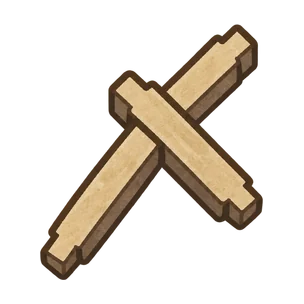
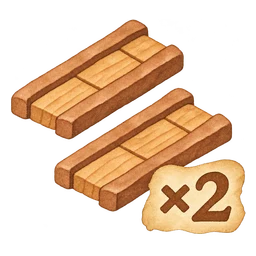
건설 버튼 정렬, 길 그림 교체, 길 건설 카드 확인 버튼, 숫자 패 가운데로
건설 버튼 네 개의 그림·이름·재료가 버튼마다 같은 높이에 놓인다. 재료는 한 줄에 두 개씩 같은 칸 너비로 맞춰 위아래 줄의 아이콘과 숫자가 세로로 맞고, 두 줄 자리를 늘 비워 둔다. 버튼 높이는 교환·턴 종료 버튼과 같은 88px이다.

- 건설 버튼의 도로 그림을 판자 길 한 조각(road.webp)으로, 길 건설 카드 그림을 판자 길 두 조각과 ×2 딱지로 바꿨다. 받은 투명 바탕 그림에서 흰 테두리만 걷어 256px WebP 로 줄였다.
- 길 건설 카드를 쓰면 빛나는 변을 고를 때마다 '✓ 도로 건설 · 공짜 n개 남음' 버튼이 떠서 길을 하나씩 확인하며 놓는다 (전에는 누르자마자 지어졌다).
- 숫자 패를 칸 한가운데(TOKEN_FACE)로 옮기고 30px 에서 34px 로 조금 키웠다. 숫자와 확률 점도 원판 가운데에 맞췄다. 소품을 비우는 빈터는 그대로다.

diff --git a/src/client/screens/Game.tsx b/src/client/screens/Game.tsx
@@ -191,14 +191,18 @@ export default function Game({ view, onRenderer, children }: { view: RoomView; o
       setSelected((cur) => (cur && cur.kind === sel.kind && cur.id === sel.id ? null : spotAction(view, sel) ? sel : null));
       return;
     }
-    // 건설 모드나 길 건설 카드: 빛나는 자리를 누르면 확인 없이 바로 짓는다.
-    const freeRoads = g.phase === 'playing' && g.step === 'road_building' && g.currentPlayerId === view.you;
-    if (buildMode || freeRoads) {
+    // 길 건설 카드: 빛나는 변을 고르면 ✓ 도로 건설 버튼이 뜨고, 길마다 그 버튼을 눌러 하나씩 놓는다.
+    if (g.phase === 'playing' && g.step === 'road_building' && g.currentPlayerId === view.you) {
+      setSelected((cur) => (cur && cur.kind === sel.kind && cur.id === sel.id ? null : spotAction(view, sel) ? sel : null));
+      return;
+    }
+    // 건설 모드: 빛나는 자리를 누르면 확인 없이 바로 짓는다.
+    if (buildMode) {
       const act = spotAction(view, sel);
-      const want = freeRoads || buildMode === 'road' ? 'build_road' : buildMode === 'village' ? 'build_village' : 'build_city';
+      const want = buildMode === 'road' ? 'build_road' : buildMode === 'village' ? 'build_village' : 'build_city';
       if (act && act.action.type === want && !act.blocker) {
         setSelected(null);
-        void sendAction(act.action).then((ok) => ok && !freeRoads && setBuildMode(null));
+        void sendAction(act.action).then((ok) => ok && setBuildMode(null));
         return;
       }
     }
@@ -216,7 +220,7 @@ export default function Game({ view, onRenderer, children }: { view: RoomView; o
     : myTurn && g.step === 'robber'
       ? '기사단 동상을 옮길 칸을 누르세요. 그 칸은 동상이 떠날 때까지 생산하지 않습니다.'
       : myTurn && g.step === 'road_building'
-        ? `길 건설 카드: 빛나는 변을 눌러 공짜 길 ${g.freeRoads}개를 놓으세요.`
+        ? `길 건설 카드: 빛나는 변을 고르고 ✓ 도로 건설을 누르세요. 공짜 길이 ${g.freeRoads}개 남았습니다.`
         : null;
   // 좁은 화면에서는 보드 위에 떠 있고, 넓은 화면에서는 오른쪽 패널 위쪽에 놓인다 (보드를 가리지 않게).
   const banners = (

diff --git a/src/client/game.css b/src/client/game.css
@@ -372,7 +372,8 @@
   display: flex;
   flex-direction: column;
   align-items: center;
-  justify-content: center;
+  /* 그림·이름·재료를 위에서부터 같은 자리에 둔다 (재료 줄 수가 달라도 그림과 이름 높이가 버튼마다 같게) */
+  justify-content: flex-start;
   gap: 1px;
   padding: 5px 3px 4px;
   min-height: 70px;
@@ -435,18 +436,30 @@
   white-space: nowrap;
 }
 
+/* 재료: 한 줄에 두 개씩, 칸 너비를 똑같이 잡아 위아래 줄의 아이콘과 숫자가 세로로 맞는다. 두 줄 자리를 늘 비워 둔다. */
+.build-bar {
+  --bb-res-w: 27px;
+  --bb-res-h: 14px;
+}
+
 .bb-cost {
   display: flex;
   flex-wrap: wrap;
   justify-content: center;
-  gap: 0 4px;
-  min-height: 16px;
+  align-content: flex-start;
+  gap: 1px 4px;
+  width: calc(2 * var(--bb-res-w) + 4px);
+  max-width: 100%;
+  min-height: calc(2 * var(--bb-res-h) + 1px);
 }
 
 .bb-res {
   display: inline-flex;
   align-items: center;
-  gap: 1px;
+  justify-content: center;
+  gap: 2px;
+  width: var(--bb-res-w);
+  height: var(--bb-res-h);
   font-size: 0.72rem;
   line-height: 1;
 }
@@ -2762,12 +2775,12 @@
 
 /* 건설 버튼: 판자 길, 작은 집, 성벽 마을, 발전 카드 뒷면 */
 .bb-ico {
-  height: 34px;
+  height: 30px;
 }
 
 .bb-ico .art-img {
-  width: 34px;
-  height: 34px;
+  width: 30px;
+  height: 30px;
   filter: drop-shadow(0 1px 1px rgba(58, 42, 31, 0.3));
   transition: transform 0.18s ease-out;
 }
@@ -3641,6 +3654,10 @@
   }
   .game-wide .bb-res {
     font-size: 0.62rem;
+  }
+  .game-wide .build-bar {
+    --bb-res-w: 22px;
+    --bb-res-h: 12px;
   }
   .game-wide .bb-res .res-icon,
   .game-wide .bb-res svg {

diff --git a/src/client/board/BoardRenderer.ts b/src/client/board/BoardRenderer.ts
@@ -21,6 +21,7 @@ import {
   PLATFORM_TOP,
   PLAZA_STATUE_SPOT,
   STATUE_SPOT,
+  TOKEN_FACE,
   TOKEN_SPOT,
   TILE_THICKNESS,
   TILE_TOP,
@@ -2461,7 +2462,7 @@ export class BoardRenderer {
         const el = document.createElement('div');
         this.overlay.appendChild(el);
         const c = tileCenter(t, this.metrics);
-        item = { el, world: new THREE.Vector3(c.x + TOKEN_SPOT.x, TILE_TOP + 0.02, c.z + TOKEN_SPOT.z), anchor: 'translate(-50%, -50%) scale(var(--tz, 1))' };
+        item = { el, world: new THREE.Vector3(c.x + TOKEN_FACE.x, TILE_TOP + 0.02, c.z + TOKEN_FACE.z), anchor: 'translate(-50%, -50%) scale(var(--tz, 1))' };
         this.numberTokens.set(t.id, item);
       }
       const locked = robber === t.id;
@@ -2775,7 +2776,7 @@ export class BoardRenderer {
       const to = this.vertexWorld(it.vertexId);
       if (!t || !to) return;
       const c = tileCenter(t, this.metrics);
-      const from = new THREE.Vector3(c.x + TOKEN_SPOT.x, TILE_TOP + 0.3, c.z + TOKEN_SPOT.z);
+      const from = new THREE.Vector3(c.x + TOKEN_FACE.x, TILE_TOP + 0.3, c.z + TOKEN_FACE.z);
       for (let k = 0; k < it.amount; k++) {
         const target = to.clone().add(new THREE.Vector3((k - (it.amount - 1) / 2) * 0.2, 0.55, 0));
         this.launchGoods(it.resource, from.clone(), target, now + 420 + idx * 110 + k * 130, 950, 0.75);

diff --git a/src/client/styles.css b/src/client/styles.css
@@ -1014,8 +1014,8 @@ h2 {
 /* 숫자 패: 양피지 원판에 먹으로 쓴 숫자, 빨간 6·8, 아래 점은 나올 확률(많을수록 자주 나온다).
    바깥 .num-token 은 보드 위 자리만 잡고, 원판(.num-face)이 튀거나 흔들린다. */
 .num-token {
-  width: 30px;
-  height: 30px;
+  width: 34px;
+  height: 34px;
 }
 
 .num-face {
@@ -1030,17 +1030,18 @@ h2 {
   align-items: center;
   justify-content: center;
   color: #2c2018;
-  font: 700 15px/1 'Palatino Linotype', 'Book Antiqua', Palatino, Georgia, var(--font-title);
+  font: 700 17px/1 'Palatino Linotype', 'Book Antiqua', Palatino, Georgia, var(--font-title);
 }
 
+/* 숫자와 아래 점(나올 확률)을 한 덩어리로 원판 한가운데에 둔다 */
 .num-face b {
-  margin-top: 3px;
+  margin-top: 2px;
 }
 
 .num-face i {
   font-style: normal;
-  font-size: 8px;
-  line-height: 7px;
+  font-size: 9px;
+  line-height: 8px;
   letter-spacing: -1px;
 }
 

diff --git a/src/client/board/layout.ts b/src/client/board/layout.ts
@@ -100,6 +100,11 @@ type Local = Omit<Placement, 'x' | 'y' | 'z'> & { x: number; z: number; y?: numb
 
 /** 숫자 패가 놓이는 자리 (타일 중심 기준). 생산 칸마다 이 둘레를 비워 둔다. */
 export const TOKEN_SPOT = { x: 0, z: 0.12 };
+/**
+ * 숫자 패를 화면에 띄우는 자리: 칸 한가운데. 위에서 비스듬히 내려다보므로 TOKEN_SPOT 에 띄우면 칸 가운데보다 조금 아래로 보인다.
+ * 소품을 비우는 빈터는 TOKEN_SPOT 기준 그대로 둔다 (가운데도 빈터 안이다).
+ */
+export const TOKEN_FACE = { x: 0, z: 0 };
 /** 기사단 동상이 서는 자리 (숫자 패 바로 뒤라 둘이 겹치지 않는다) */
 export const STATUE_SPOT = { x: 0, z: -0.3 };
 /** 광장에서는 가운데 돌 단 위에 선다. */

diff --git a/src/client/game/derive.ts b/src/client/game/derive.ts
@@ -357,7 +357,8 @@ export function spotAction(view: RoomView, sel: { kind: 'tile' | 'vertex' | 'edg
   }
   if (!buildSpots(view, 'road').includes(sel.id)) return null;
   if (g.phase === 'playing' && g.step === 'road_building' && g.currentPlayerId === me) {
-    return { label: `공짜 길 놓기 (남은 ${g.freeRoads}개)`, blocker: null, action: { type: 'build_road', edgeId: sel.id } };
+    // 길 건설 카드: 고른 변마다 ✓ 버튼을 눌러 하나씩 놓는다.
+    return { label: `도로 건설 · 공짜 ${g.freeRoads}개 남음`, blocker: null, action: { type: 'build_road', edgeId: sel.id }, confirm: true };
   }
   if (myMain) return { label: '길 놓기', blocker: buildBlocker(view, 'road'), action: { type: 'build_road', edgeId: sel.id } };
   return null;

diff --git a/src/client/ui/art.tsx b/src/client/ui/art.tsx
@@ -20,9 +20,9 @@ export const DEV_ART: Record<DevKind, string> = {
   monopoly: `${BASE}dev_monopoly.webp`,
 };
 
-/** 길은 엇갈린 판자, 마을은 작은 집, 도시는 성벽 두른 마을 */
+/** 길은 판자 길 한 조각, 마을은 작은 집, 도시는 성벽 두른 마을 (길 건설 카드는 판자 길 두 조각에 ×2 딱지) */
 export const PIECE_ART: Record<PieceKind, string> = {
-  road: `${BASE}dev_road_building.webp`,
+  road: `${BASE}road.webp`,
   village: `${BASE}village.webp`,
   city: `${BASE}city.webp`,
 };

diff --git a/src/client/game/panels.tsx b/src/client/game/panels.tsx
@@ -259,7 +259,7 @@ export function BuildBar({
               }}
             >
               <span className="bb-ico">
-                <ArtImg src={item.key === 'dev' ? DEV_BACK_ART : PIECE_ART[item.key]} size={34} />
+                <ArtImg src={item.key === 'dev' ? DEV_BACK_ART : PIECE_ART[item.key]} size={30} />
               </span>
               <span className="bb-name">{active ? '그만두기' : item.label}</span>
               <CostRow cost={item.cost} have={g.myResources} />

diff --git a/README.md b/README.md
@@ -80,10 +80,10 @@ npm start
 
 | 화면 | 조작 |
 | --- | --- |
-| 3D 보드 | 한 손가락(마우스 왼쪽) 끌기로 이동, 두 손가락 벌리기(휠)로 확대·축소. 칸마다 숫자 패(빨간 6·8, 나올 확률 점)가 있다. 타일·꼭짓점·변을 눌러도 설명 쪽지는 뜨지 않고 그 자리에서 할 수 있는 일(시작 마을과 길 놓기, 길 놓기, 마을 짓기, 도시로 업그레이드, 기사단 동상 옮기기)이 있을 때만 버튼 하나가 뜬다. 판정 반경은 확대 수준과 상관없이 손가락 크기 그대로이고 기록에서는 칸 코드 대신 "곡물 10", "곡물 10·석재 4 사이"처럼 자원과 숫자로 자리를 부른다. 내 차례에는 건설 버튼을 누르지 않아도 길을 이을 수 있는 변(점선)과 마을을 지을 수 있는 꼭짓점(고리)이 은은하게 보인다. 길에 마우스를 올리면(휴대폰은 길을 누르면) 그 주인의 가장 긴 교역로가 금빛으로 그려지고 이어진 길 칸 수와 최장 교역로까지 남은 칸도 작은 창에 함께 나온다. 누른 타일의 소품은 톡 튀고 마을·도시·길은 한 번 부풀었다 돌아온다. 마을·도시 위 주인 문양(빨강 ○, 파랑 △, 주황 □, 보라 ◇)은 바로 위쪽 길을 가리지 않게 평소에는 숨겨 두고 지붕 색으로만 구별하다가 마을·도시를 누르면 그 위에 톡 떠오르고 다른 자리를 누르거나 같은 건물을 다시 누르면 사라진다. |
+| 3D 보드 | 한 손가락(마우스 왼쪽) 끌기로 이동, 두 손가락 벌리기(휠)로 확대·축소. 칸마다 한가운데에 숫자 패(빨간 6·8, 나올 확률 점)가 있다. 타일·꼭짓점·변을 눌러도 설명 쪽지는 뜨지 않고 그 자리에서 할 수 있는 일(시작 마을과 길 놓기, 길 놓기, 마을 짓기, 도시로 업그레이드, 기사단 동상 옮기기)이 있을 때만 버튼 하나가 뜬다. 판정 반경은 확대 수준과 상관없이 손가락 크기 그대로이고 기록에서는 칸 코드 대신 "곡물 10", "곡물 10·석재 4 사이"처럼 자원과 숫자로 자리를 부른다. 내 차례에는 건설 버튼을 누르지 않아도 길을 이을 수 있는 변(점선)과 마을을 지을 수 있는 꼭짓점(고리)이 은은하게 보인다. 길에 마우스를 올리면(휴대폰은 길을 누르면) 그 주인의 가장 긴 교역로가 금빛으로 그려지고 이어진 길 칸 수와 최장 교역로까지 남은 칸도 작은 창에 함께 나온다. 누른 타일의 소품은 톡 튀고 마을·도시·길은 한 번 부풀었다 돌아온다. 마을·도시 위 주인 문양(빨강 ○, 파랑 △, 주황 □, 보라 ◇)은 바로 위쪽 길을 가리지 않게 평소에는 숨겨 두고 지붕 색으로만 구별하다가 마을·도시를 누르면 그 위에 톡 떠오르고 다른 자리를 누르거나 같은 건물을 다시 누르면 사라진다. |
 | 차례 상태 쪽지 | 예전 위쪽 띠는 없앴다. 넓은 화면은 오른쪽 패널 맨 위, 휴대폰은 보드 왼쪽 위에 작은 쪽지가 뜬다. 메뉴(☰), 턴 번호, 마지막 주사위(3D 주사위가 구르는 동안에는 "굴리는 중…"), 승리 점수, **남은 차례 시간**(줄어드는 고리, 10초 아래면 붉게 뛴다)과 지금 할 일 한 줄이 있다. 내 시간이 흐를 때는 쪽지 아래 가장자리에 남은 시간 막대도 줄어든다. |
 | 왼쪽 위 교환 증서 | 열린 교환 제안마다 중세 상인의 거래 내역서 같은 종이가 한 장씩 쌓인다. 머리에는 증서 번호와 제안자, 받는 사람(모두 또는 한 사람)이 있다. 장부 칸은 위아래 두 줄로, 보는 사람 기준으로 위 줄에 상대에게서 받을 것이, 아래 줄에 내가 줄 것이 글자 대신 자원 그림 카드(오른쪽 위 밀랍에 장수)로 놓인다(교환에 끼지 않은 사람에게는 제안자가 내는 것이 아래 줄). 서명란에는 상대마다의 응답(수락·거절·생각 중)이 적힌다. 받은 사람은 **수락**·**거절**을 누르며 수락한 뒤에도 **수락 취소**로 거절로 바꿀 수 있다. 수락만으로는 카드가 옮겨지지 않고 제안한 사람이 수락한 사람 옆 **확정**을 눌러야 그 사람과 교환이 이루어진다. 새 증서는 제자리에서 옅게 떠오른다. 모두 거절하면 "거절됨", 취소하면 "취소됨", 성사되면 "체결" 글씨가 증서 가운데 뜨고 증서는 크기나 자리가 바뀌지 않은 채 3초쯤 머물다가 옅어지며 사라진다(이때 따로 알림은 없다). 일대일 대결에서는 받는 사람이 한 명뿐이라 "모두에게" 대신 그 사람 이름으로 제안한다. 휴대폰에서는 내가 응답할 일이 없는 증서를 한 줄로 접어 두었다가 머리를 누르면 펼친다. |
-| 아래쪽 | **손에 든 카드**: 화면 아래 띠에 한 줄로 가지런히 든다(넓은 화면 70×100, 휴대폰 56×80). 자원 카드와 발전 카드 모두 종류마다 한 장을 앞에 두고 뒤에 겹친 두께와 숫자로 장수를 보여 준다. 교역로에 닿은 자원에는 비율 띠, 지금 쓸 수 있는 발전 카드에는 빛나는 테두리, 이번 턴에 산 카드에는 "새 카드" 띠가 붙는다. 자원 카드를 누르면 교환 창이 열리면서 그 카드가 낼 것에 들어가고 발전 카드를 누르면 카드 위에 쓰기 창이 붙는다(풍년은 자원 2개, 독점은 1개를 골라서 쓴다). 카드 그림은 자원 다섯 가지(통나무, 볏단, 양, 벽돌 더미, 돌덩이)와 발전 카드 다섯 가지(기사 투구, 길 건설 판자, 풍년 곡식 바구니, 독점 저울, 승점 왕관) 모두 수채화 그림이다. **건설 버튼**: 카드 옆 네모 버튼 [도로] [마을] [도시] [발전 카드]에는 엇갈린 판자, 작은 집, 성벽 두른 마을, 발전 카드 뒷면 그림이 있고 아래에 재료가 아이콘과 숫자로 적혀 있으며 모자란 재료는 흐리게 보인다. 못 하는 까닭(예: "벽돌 1 더 필요합니다.")은 마우스를 올리거나 누를 때 버튼 위 말풍선에 짧게 나온다. 도로·마을·도시는 누르면 지을 수 있는 자리가 빛나고 그 자리를 누르는 즉시 지어진다. 발전 카드 버튼은 누르면 바로 산다. 그 옆으로 굴리기 전에는 **주사위 굴리기**가, 굴린 뒤에는 **교환**(은행과 바로 바꿀 수 있는 자원이 있으면 황토 점)과 **턴 종료**가 있다. |
+| 아래쪽 | **손에 든 카드**: 화면 아래 띠에 한 줄로 가지런히 든다(넓은 화면 70×100, 휴대폰 56×80). 자원 카드와 발전 카드 모두 종류마다 한 장을 앞에 두고 뒤에 겹친 두께와 숫자로 장수를 보여 준다. 교역로에 닿은 자원에는 비율 띠, 지금 쓸 수 있는 발전 카드에는 빛나는 테두리, 이번 턴에 산 카드에는 "새 카드" 띠가 붙는다. 자원 카드를 누르면 교환 창이 열리면서 그 카드가 낼 것에 들어가고 발전 카드를 누르면 카드 위에 쓰기 창이 붙는다(풍년은 자원 2개, 독점은 1개를 골라서 쓴다). 카드 그림은 자원 다섯 가지(통나무, 볏단, 양, 벽돌 더미, 돌덩이)와 발전 카드 다섯 가지(기사 투구, 길 건설 판자 길 두 조각과 ×2 딱지, 풍년 곡식 바구니, 독점 저울, 승점 왕관) 모두 수채화 그림이다. **건설 버튼**: 카드 옆 네모 버튼 [도로] [마을] [도시] [발전 카드]에는 판자 길 한 조각, 작은 집, 성벽 두른 마을, 발전 카드 뒷면 그림이 있고 아래에 재료가 아이콘과 숫자로 적혀 있으며 모자란 재료는 흐리게 보인다. 네 버튼 모두 그림, 이름, 재료가 같은 높이에 놓이고 재료는 한 줄에 두 개씩 같은 칸 너비로 맞춰 세로줄이 맞는다. 못 하는 까닭(예: "벽돌 1 더 필요합니다.")은 마우스를 올리거나 누를 때 버튼 위 말풍선에 짧게 나온다. 도로·마을·도시는 누르면 지을 수 있는 자리가 빛나고 그 자리를 누르는 즉시 지어진다. 길 건설 카드를 쓰면 빛나는 변을 고를 때마다 ✓ **도로 건설 · 공짜 2개 남음** 버튼이 떠서 길을 하나씩 확인하며 놓는다. 발전 카드 버튼은 누르면 바로 산다. 그 옆으로 굴리기 전에는 **주사위 굴리기**가, 굴린 뒤에는 **교환**(은행과 바로 바꿀 수 있는 자원이 있으면 황토 점)과 **턴 종료**가 있다. |
 | 교환 창 | 손에 든 카드 바로 위에 열린다. 위 줄 **받을 것**과 손에 맞닿은 아래 줄 **낼 것**에 자원 카드 다섯 장이 놓여 있어 누르면 한 장(은행은 한 묶음)씩 더해지고 카드 위의 − 로 뺀다. **은행·교역로** 탭의 카드마다 지금 내 비율(4:1, 교역로 3:1·2:1)이 찍혀 있고 그만큼 모인 자원만 고를 수 있다. 여러 묶음을 한 번에 내도 되며 받을 카드 수가 묶음 수와 맞으면 "은행과 교환 · 석재 4 → 벽돌 1"처럼 버튼에 내용이 나온다. **플레이어와 거래** 탭에서는 가진 카드에서 낼 것을, 원하는 카드를 받을 것에 고른 뒤 **모두** 또는 한 사람을 골라 제안한다. 제안은 여러 번 낼 수 있고 동시에 3개까지 열어 둘 수 있어서 버튼에 "모두에게 제안 (1/3)"처럼 열린 수가 함께 적혀 있다. |
 | 오른쪽 아래 | **플레이어 상태 창**: 사람마다 깃발·이름·공개 승점, 시간이 흐르는 사람의 남은 시간, 발전 카드 뒷면과 장수, 쓴 기사, 가장 긴 길, 최장 교역로·최강 기사단 꼬리표, 열린 교환 제안 수(⇄), 오른쪽 아래에 자원 카드 뭉치와 장수. 지금 차례인 사람에게는 그 색 테두리가 둘린다. 휴대폰에서는 차례 상태 쪽지 아래에 두 칸씩 나란히 작게 놓여 보드를 가리지 않고, 채팅(💬)·이모티콘(😊) 단추만 오른쪽 아래 구석에 있다. 창을 줄이면 오른쪽 패널 폭이 함께 줄고, 낮아지면 최근 기록 → 대화 순으로 접히며, 아래 띠는 카드와 버튼을 줄여 한 줄을 지킨다. |
 | 자원이 들어올 때 | 주사위로 생산하면 칸이 금빛으로 빛나고 생산물이 마을·도시로 날아간 뒤, 그 자리에서 **자원 카드가 손으로 날아든다**. 내 자원이 나온 칸은 바닥이 따뜻한 빛으로 잠깐 환해지고(보드 전체가 아니라 그 칸만), 내 카드는 큼직하게 내 손의 그 자원 자리로 슉슉 들어오며, 다른 사람의 카드는 작게 그 사람 상태 창 오른쪽 아래 카드 뭉치로 슈루룩 빨려 들어간다. 여러 장이면 그만큼 날아가고 장수는 카드가 닿을 때 하나씩 오른다. 두 번째 시작 마을을 지을 때 받는 자원도 같다. |
@@ -140,7 +140,7 @@ npm start
 | 수채화 후처리 | 장면을 화면 밖 버퍼(다중 샘플링)에 그린 뒤 한 번의 전체 화면 패스로 옮긴다. 깊이 차이와 밝기 차이로 세피아 먹선을 긋고, 손으로 그린 듯 가장자리를 살짝 흔들며, 어두운 물감의 알갱이, 마르며 가장자리에 고인 물감, 밝은 곳에 비치는 종이 색과 종이 결, 바깥쪽이 따뜻하게 어두워지는 비네트를 입힌다. | `paint.ts` 의 `PaintedRenderer` |
 | 움직임 | 나뭇잎·덤불·밀 이삭·깃발은 셰이더에서 높이에 따라 바람에 아주 조금 흔들린다(바닥은 그대로). 양은 자기 자리 둘레의 둥근 길을 따라 목초지를 거닐며 걷는 쪽으로 몸을 돌리다가 가끔 멈춰 고개를 숙여 풀을 뜯는다. 벽돌 가마에서는 연기가 피어오른다. 눈에 겨우 띌 만큼만 움직이게 세기를 낮췄다. 플레이어가 놓은 판자 길 위로는 그 사람 색 옷과 모자 차림의 작은 사람(교역인, 키가 마을 집의 3분의 1쯤)이 길 두세 개에 한 명꼴로 오간다(한 사람에 다섯 명, 보드 전체 열여덟 명까지). 교역인은 이어진 길을 따라 걷다 갈림길에서 다음 길을 번갈아 고르고 내 마을·도시 앞이나 길 끝에 닿으면 잠깐 섰다가 돌아서며 마주 오는 사람과는 오른쪽으로 비켜 지나간다. 타일을 누르면 그 칸 소품이 가운데부터 차례로 눌렸다 톡 튀고 바위·벽돌 더미는 조금 흔들린다. 거닐던 양은 양마다 따로 도는 걸음 시계를 멈춘 채 지금 선 자리와 보는 방향 그대로 튀었다가 거기서 다시 걷는다. 마을·도시·길을 누르면 그 조각이 한 번 부풀었다 돌아온다. 이것만 움직일 때는 초당 30번 정도만 그리고, 메뉴 → 설정 → 보드 움직임으로 끌 수 있다. 기기에서 '동작 줄이기'를 켜 두었으면 처음부터 꺼져 있다. 끄면 교역인도 그 자리에 멈춰 선다. | `paint.ts` 의 `paintTime`·`sway`, `assets.ts` 의 `SWAY`, `BoardRenderer.ts` 의 `updateMotion`·`pokeAt`·`updateTraders`, 소품 `trader` |
 | 바닥 텍스처 | 숲·밭·목초지·점토 구덩이·채석장·광장·흙길·모래밭을 넓은 물감 농담, 얼룩 테두리(블룸), 짧은 붓 자국, 펜으로 그은 돌 테두리로 칠했다. 숲 바닥과 나뭇잎은 짙은 초록, 양 목초지는 옅은 연두로 칠해 두 칸이 바로 구별된다. | `scripts/lib/texgen.ts` 의 `ground*` |
-| 카드 그림 | 손 카드, 교환 창·증서, 건설 버튼, 비용 줄, 교역로 표지에 쓰는 수채화 그림 13장. 사용자가 준 투명 바탕 PNG·WebP 를 받아 가장자리 번짐색을 안쪽 색으로 덮고 여백을 잘라 256px 정사각 WebP(장당 10~30KB)로 줄였다. 처음 화면에서 미리 받아 둔다. | `public/art/cards/*.webp`, `src/client/ui/art.tsx` |
+| 카드 그림 | 손 카드, 교환 창·증서, 건설 버튼, 비용 줄, 교역로 표지에 쓰는 수채화 그림 14장(건설 버튼의 판자 길 한 조각 `road.webp` 와 길 건설 카드의 두 조각 ×2 `dev_road_building.webp` 포함). 사용자가 준 투명 바탕 PNG·WebP 를 받아 가장자리 번짐색을 안쪽 색으로 덮고 여백을 잘라 256px 정사각 WebP(장당 10~30KB)로 줄였다. 처음 화면에서 미리 받아 둔다. | `public/art/cards/*.webp`, `src/client/ui/art.tsx` |
 | 타일 사이 샛길 | 타일 사이 틈(약 0.31)은 흙 땅으로 두고, 아직 길이 없는 변마다 그 한가운데로 희끄무레한 모래·자갈빛 오솔길(폭 약 0.09)을 냈다. 오솔길은 꼭짓점에 딱 붙어 있다가 변 가운데로 갈수록 옆으로 조금 휘었다 돌아오는데, 변마다 휘는 방향과 박자가 달라 잘 다듬지 않은 샛길처럼 보이고 변 위치는 헷갈리지 않을 만큼만 벗어난다. 가장자리는 물감 잡음으로 들쭉날쭉하게 풀고 길가 흙은 밟힌 듯 조금 짙게 칠해 흰 길이 도드라진다. 띠를 따로 깔지 않고 흙 땅 윗면 셰이더가 거리장 텍스처(바닥 좌표마다 가장 가까운 중심선까지의 거리, 보드를 만들 때 한 번 계산)를 읽어 칠하므로 그리기 호출이 늘지 않는다. 세 갈래가 만나는 곳은 부드러운 최솟값으로 합쳐 조금 넓게 다져진 갈림길이 되고, 경계를 넓게 풀어 두어 후처리 먹선이 길 가장자리에 줄을 긋지 않는다. 내 차례에 길을 이을 수 있는 변을 알리는 안내 점은 이 중심선을 따라 적갈색으로 찍는다. 2D 보드에서도 빈 변을 살짝 굽은 가는 흰 선으로 그린다. 길가에는 잔돌과 풀 포기를 한두 개씩 두었다. 타일 옆면은 지형마다 흙·풀 둑 색이라 타일이 길보다 한 뼘 높은 둑처럼 보인다. 플레이어가 놓은 판자 길은 폭 0.22, 높이 0.1 의 도톰한 판자 조각이라 그 변의 샛길을 덮는다. 판자 틈으로 짙은 받침목이 비쳐 판자 줄이 또렷하고 멀리서도 누구 길인지 보인다. 같은 사람의 길이나 내 마을·도시와 꼭짓점에서 만나면 그쪽 끝이 꼭짓점까지 늘어난다. 길끼리 만난 빈 꼭짓점에는 육각 판자 받침(`roadjoint`)이 깔려 한 줄로 이어진다. 남의 마을·도시가 선 꼭짓점에서는 규칙대로 끊긴 채 둔다. 마을·도시도 실제 보드게임 말처럼 평평한 판 위에 큼직하게 세우고(마을 집 폭 약 0.5, 변 하나는 1.32) 소유자 문양 높이와 누르는 범위도 그 크기에 맞췄다. | `BoardRenderer.ts` 의 `footpathLine`·`footpathField`·`withFootpaths`·`PATH_HALF`·`PATH_WANDER`·`roadsidePlacements`·`VILLAGE_SCALE`·`CITY_SCALE`·`pick`, `FlatBoard.tsx` 의 `flat-trail`, 소품 `road`·`roadjoint` |
 | 바닷가와 교역로 | 흙 땅은 바깥 타일 둘레(바닷가 변)를 따라 만들고 그 바깥에 모래밭과 얕은 물을 둘렀다. 해상 교역로마다 바다에 작은 부두를 띄우고 그 변의 두 꼭짓점 앞 흙 둑에서 잔교 두 갈래를 부두로 이었다. 잔교와 부두 바닥은 모래밭보다 높아 묻히지 않는다. 부두에는 교역 물품(2:1 은 그 자원, 3:1 은 통과 상자)을 올렸다. 표지는 아이콘(자원, 3:1 은 물음표)과 비율만 적은 작은 알약 모양이라 부두를 가리지 않는다. 누가 해상 교역로로 바꾸면(게임 기록 `bank_trade` 의 `harbor`) 그 사람의 마을·도시가 닿은 교역로 가운데 비율이 맞는 부두마다 그 사람 색 돛을 단 배가 빠르게 들어온다. 배는 낸 자원을 싣고 받은 자원을 마을·도시로 내려 준 뒤 바다로 떠난다. | `BoardRenderer.ts` 의 `coastLoop`·`syncHarbors`·`playHarborTrade`·`playHarborShip`, `board/harborTrade.ts`, 소품 `ship` |
 | 칸 소품 | 숲은 나무를 낮게 눌러 가장자리에서 들여 심어 뒤쪽 길이 가리지 않는다. 밭은 마름모 세 뙈기로 나눠 뙈기마다 고랑 방향을 달리했다(작물은 모두 같은 빛깔의 익은 밀). 점토 구덩이는 가마, 높이 쌓은 벽돌 탑과 벽돌 더미, 볕에 말리는 날벽돌 줄로 벽돌 공방처럼 꾸몄다. 생산 칸 가운데는 숫자 패와 동상 자리로 비워 둔다. 광장은 가운데 돌 단 둘레에 우물·통·상자를 두고 뒤쪽 두 모서리를 낮은 덤불로 채워 뒤 변의 길을 가리지 않는다. | `layout.ts` |
